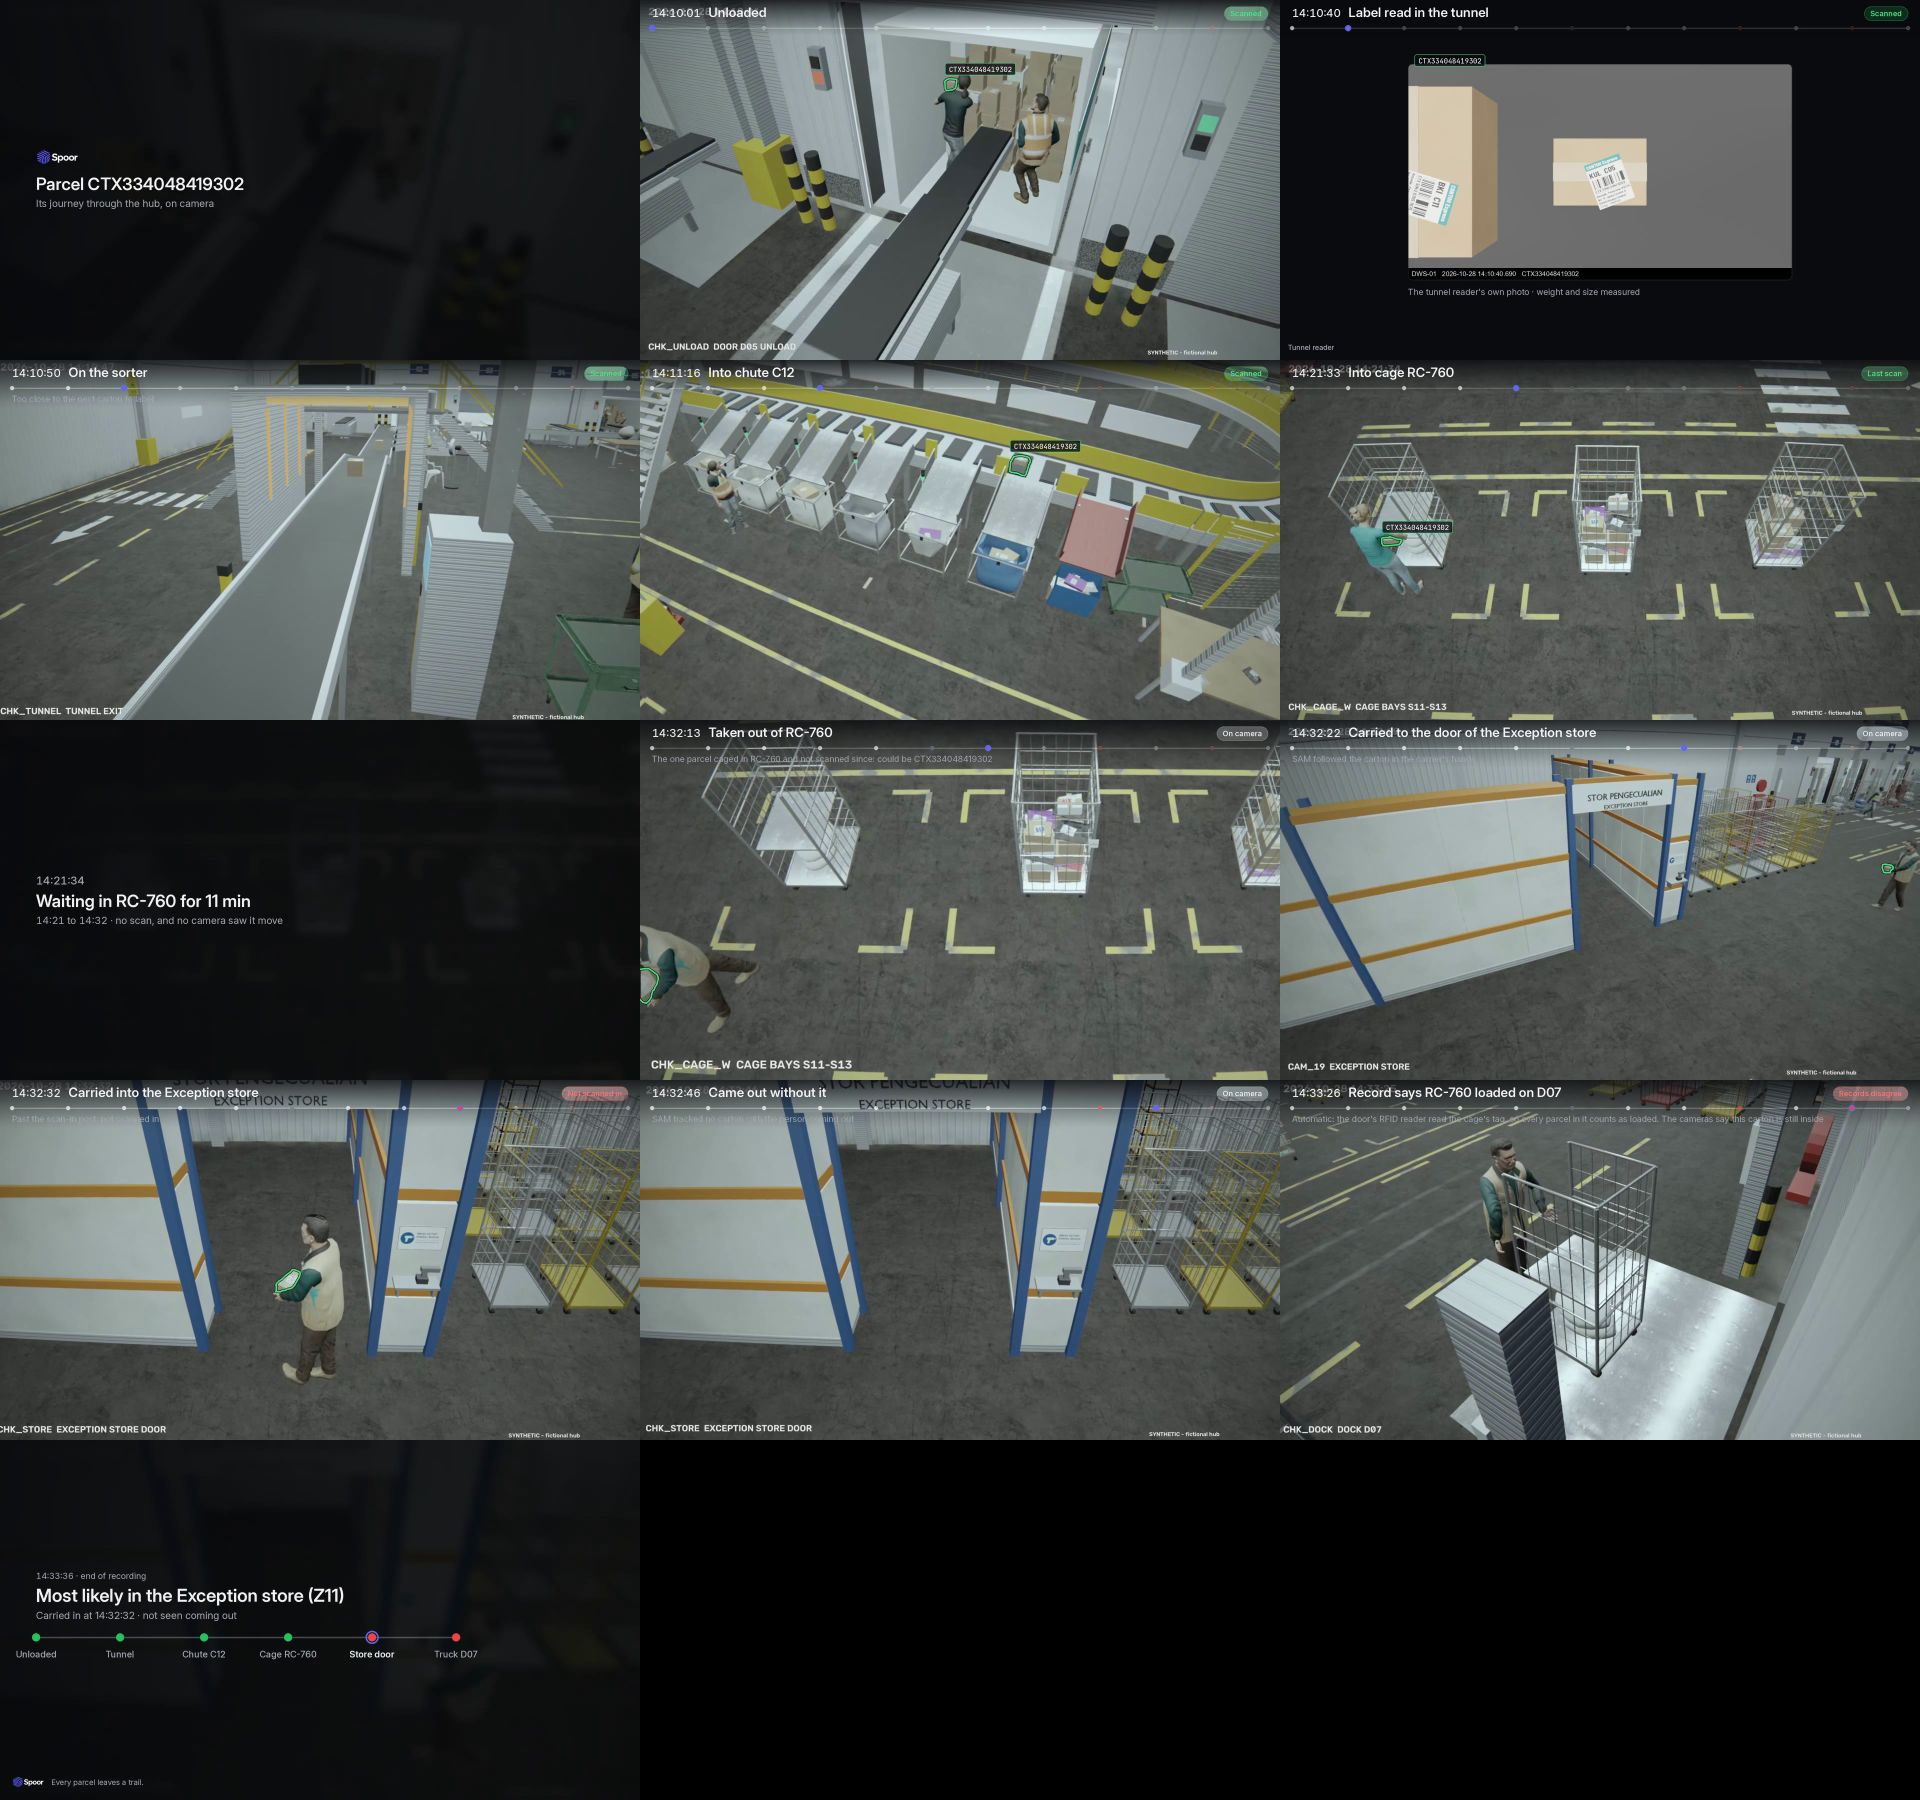
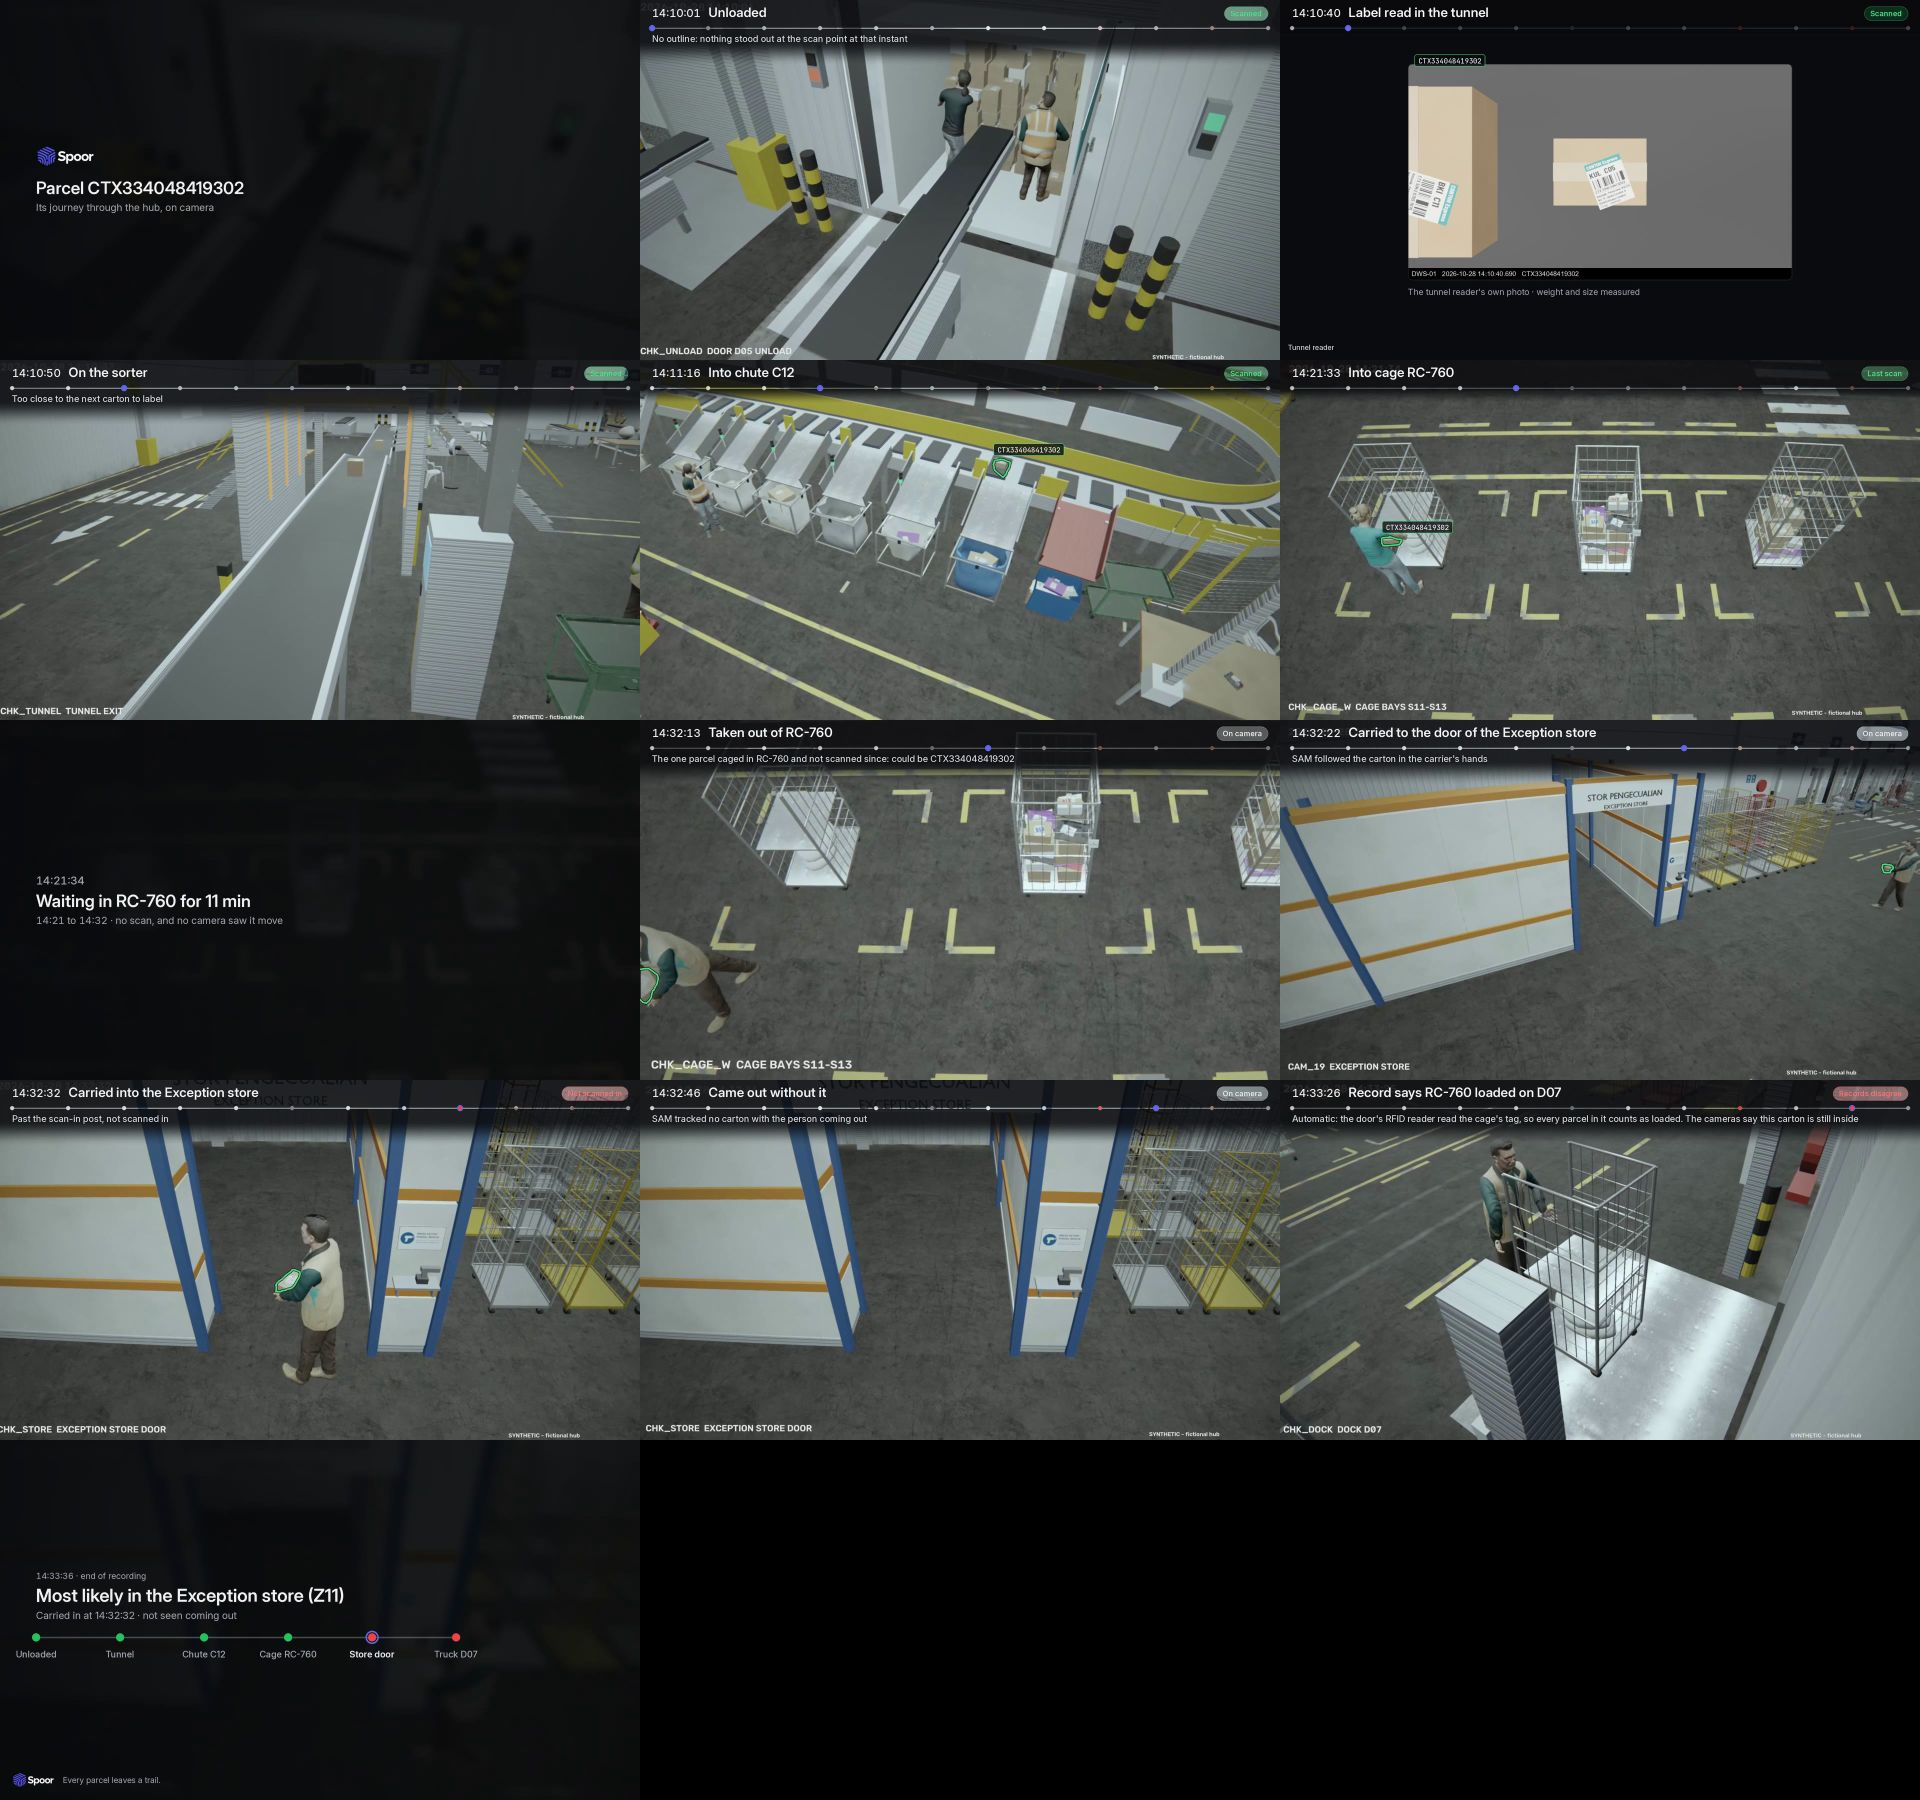
Boarding rule: an outline already riding the loop before the scan is a carrier, not the carton boarding (caught a wrong label on the W1 CAM 06 render)

Changed region(s): [[0.0, 0.0, 1.0, 0.4356], [0.0, 0.5911, 1.0, 0.6533], [0.0, 0.0933, 0.125, 0.1244]]

diff --git a/backend/src/spoor/api/services.py b/backend/src/spoor/api/services.py
@@ -344,14 +344,27 @@ class Services:
         a, b = min(segs, key=lambda s_: dist(*s_))
         d = np.array(b) - np.array(a)
         d = d / max(1e-9, np.linalg.norm(d))
-        moving = [o for o in obs if f_at <= o.source_frame.frame_index <= f_at + 15]
-        if len(moving) < 2:
+        def travel(lo, hi):
+            seen = [o for o in obs if lo <= o.source_frame.frame_index <= hi]
+            if len(seen) < 2:
+                return None
+            c = [((o.bbox_xyxy_px[0] + o.bbox_xyxy_px[2]) / 2, (o.bbox_xyxy_px[1] + o.bbox_xyxy_px[3]) / 2) for o in seen]
+            xy = image_to_site(cal, c, deck)[:, :2]
+            step = xy[-1] - xy[0]
+            frames = seen[-1].source_frame.frame_index - seen[0].source_frame.frame_index
+            return float(step @ d), abs(float(step @ np.array([-d[1], d[0]]))), max(1, frames)
+
+        after = travel(f_at, f_at + 15)
+        if after is None:
             return False
-        c = [((o.bbox_xyxy_px[0] + o.bbox_xyxy_px[2]) / 2, (o.bbox_xyxy_px[1] + o.bbox_xyxy_px[3]) / 2) for o in moving]
-        xy = image_to_site(cal, c, deck)[:, :2]
-        step = xy[-1] - xy[0]
-        along, across = float(step @ d), abs(float(step @ np.array([-d[1], d[0]])))
-        return along >= RIDE_M and along >= 2 * across
+        along, across, n = after
+        if not (along >= RIDE_M and along >= 2 * across):
+            return False
+        # it must not have been riding the loop already: an empty carrier passing the boarding spot rides along at the
+        # loop's speed before the scan too (W1: SAM's point landed on the tray the parcel was about to board); a
+        # carton boarding comes off the induction belt, so before the scan it was not yet moving along with the loop
+        before = travel(f_at - 6, f_at)
+        return before is None or before[0] / before[2] < 0.5 * along / n
 
     def _expected_box(self, row, plan, cal):
         """This parcel's own measured size (its tunnel read's dims) projected at the scan point, or None."""

diff --git a/review/log.md b/review/log.md
@@ -516,3 +516,4 @@
 2026-11-03 02:31 · ui · Investigate redesign (Rexton, emil-design-eng): who did what as agent lanes from the run's own steps (dot per step, hollow = could not run / not proven, baton line), focus card (run time, agent, model, tool words, text, numbered places), plan zoomed to the places (HubPlan fitStops) with per-place agent chips. Template ids hidden. Shots review/shots/tue/run2/agents_*.png. Bake 6 gates: same pre-existing static pile overlap as accepted W1q2; door-clip deep rows 38 vs 2, every one hidden behind the worker's own body from CHK_UNLOAD (frame review qa/review/w1s/door_deep.jpg), so rendering.
 2026-11-03 02:58 · reviewer-night · check: agents-run page reviewed, 5 fixes in TO_AGENT.md (summary Spark quote, shell height, map label clipping, per-model lane colours, hollow-dot legend). Agent active (last commit 02:41).
 2026-11-03 03:14 · render · W1 bake 6 rendered on Modal (CHK_UNLOAD, CAM_02, CHK_CHUTE, CAM_11, CAM_06; GPU fallback L4/A10G after 29 min with no L4; ~US$0.32). Frame review: door both workers working (mate squats to the floor stack and back), chute C12 parcel lands on the bag and stays visible. Old W1 clips of those 4 cameras purged (DB backup spoor.pre-w1s6.db), new 1920x1086 copies ingested. Handshakes (US$0.06): C12 divert on CAM_11 outlined; door not found: SAM's box pass follows the carton in the hands then snaps back to the wall (the picking worker stands in front of the pick spot), and never picks up the carton on the boom: no handled track, so no number at the door (rule kept strict). CAM_06 range was wrong (my estimate: the induct is at window frame ~790, the clip began at 785; the boarding in it was the next parcel): re-rendering CAM_06 765-865.
+2026-11-03 03:23 · eval · CAM_06 re-rendered 765-865 (US$0.06). Its handshake outlined the EMPTY carrier next to the parcel (SAM's point at the boarding spot a moment before the parcel boards) and _rides_loop labelled it: a wrong label caught by frame review. General fix: the outline must not already ride along the loop before the scan (a carrier passing does; a carton coming off the induction belt does not) -> now can't tell; 296 tests pass. Reel rebuilt: door without number (strict), step 3 from the tunnel exit without number, C12 + cage numbered. Investigate 'In short' as a detective's questions (6dc880d).

diff --git a/review/REXTON_TODO.md b/review/REXTON_TODO.md
@@ -1,13 +1,16 @@
 # Rexton's open asks (kept current; newest at the bottom of each list)
 
 ## Video fixes (Rexton 3 Nov ~01:20) - one W1 re-bake + one Modal render
-- [ ] Unload door: no zombie carry (front carry, fixed in code) + the mate works during the scan (staging, gate attempt 6 running)
-- [ ] Chute C12: the parcel no longer vanishes into a full bag (lands and stays on top; fixed in code, in bake 6)
+- [x] Unload door: no zombie carry + the mate works during the scan (bake 6 rendered, frame-reviewed). BUT the door lost its number: SAM's box pass follows the carton in the hands then snaps back to the wall (the picker stands in front of the pick spot); strict rule kept -> no label. Rexton to choose: keep / old clip / re-stage
+- [x] Chute C12: lands on the bag and stays visible (rendered, frame-reviewed); C12 labelled on CAM 11
 - [x] Chute C12 "box looks kemek": far cameras zoomed less in the reel (min crop 0.6)
 - [ ] Checkpoint 3 "On the sorter" gets its outline + number: the induct is reported where the parcel boards the loop
       (plan event_positions), not at the induction belt; SAM now aims there at the deck height, cameras chosen by
       calibration (CAM 06 sees it), label only if it rides off along the loop. Needs a CAM 06 clip (Modal, with the door)
-      + handshakes re-run
+      + handshakes re-run. DONE: CAM 06 rendered (765-865, after a wrong first range); SAM's point landed on the empty
+      carrier the parcel was about to board and the rides-along rule passed it (a wrong label). New general rule: an
+      outline already riding the loop before the scan is a carrier, not a carton boarding -> can't tell. Step 3 has
+      no number (honest); the reel still shows it from the tunnel exit
 - [x] Map: stop 3 showed before 2: reel/map use the event's own spot (checked on Proof: 1 -> 2 -> 3)
 - [x] Chapters 8 and 9: one continuous carry (9 starts where 8 stopped)
 
